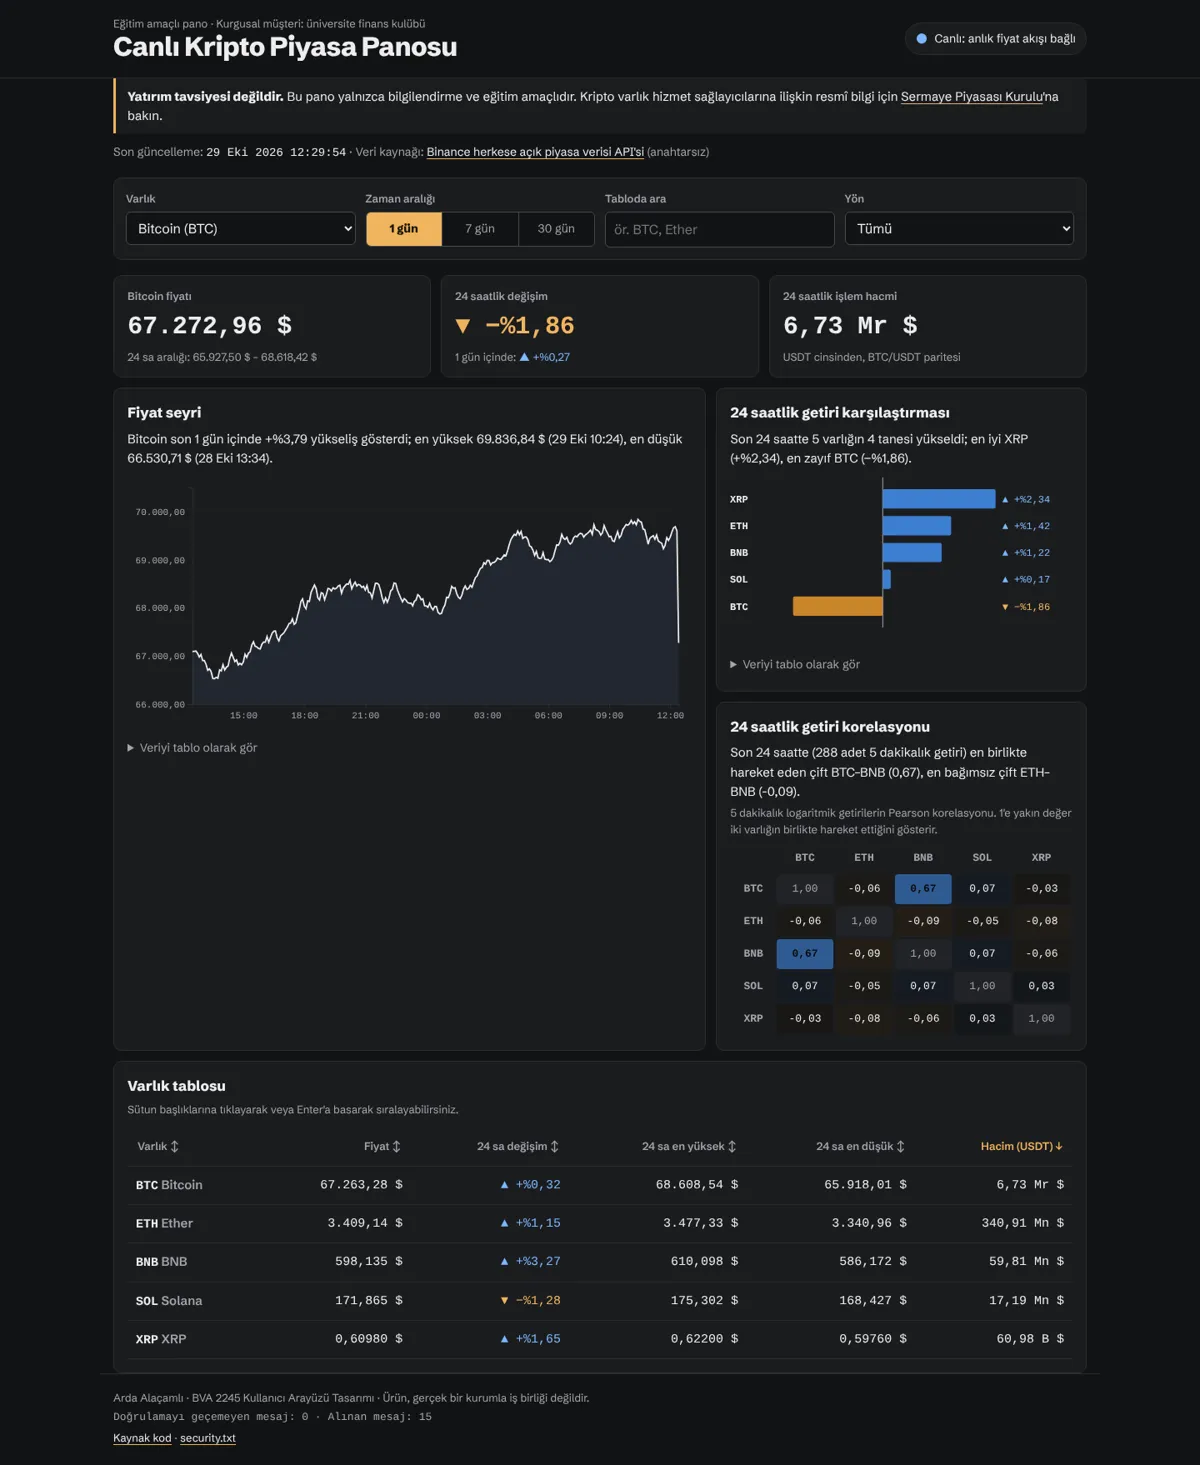
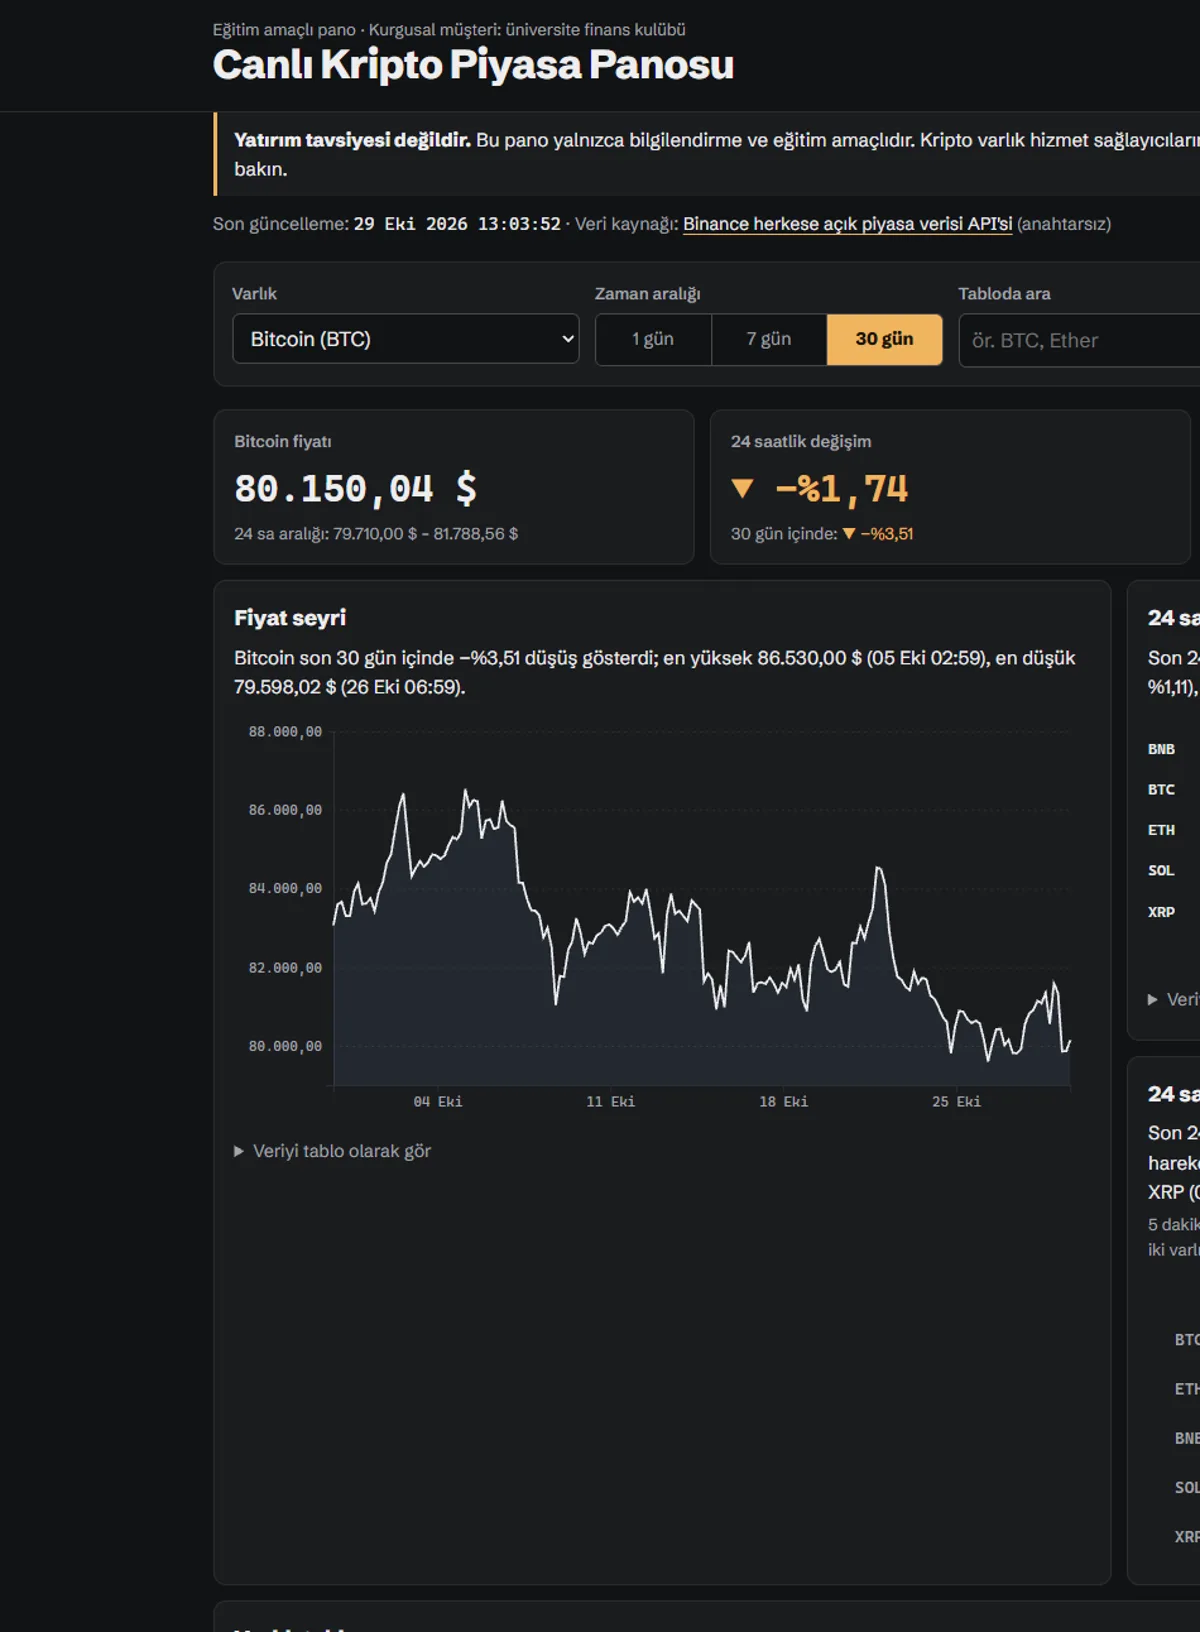
Kripto vaka sayfası: canlı veriyle alınmış masaüstü ekran görüntüsü
Claude-Session: https://claude.ai/code/session_01YBViyMNuNkV3q7NfoE2pG7

diff --git a/app/projeler/kripto-piyasa-panosu/page.js b/app/projeler/kripto-piyasa-panosu/page.js
@@ -66,7 +66,7 @@ export default function KriptoVaka() {
           <figure className="case-figure">
             {/* eslint-disable-next-line @next/next/no-img-element */}
             <img src="/projeler/kripto/masaustu.webp" alt="Panonun 1440 piksel genişlikte masaüstü görünümü" loading="lazy" />
-            <figcaption>1440 px: KPI → grafik → tablo akışı</figcaption>
+            <figcaption>Canlı veriyle masaüstü görünümü: KPI → grafik → tablo akışı</figcaption>
           </figure>
           <figure className="case-figure narrow">
             {/* eslint-disable-next-line @next/next/no-img-element */}
